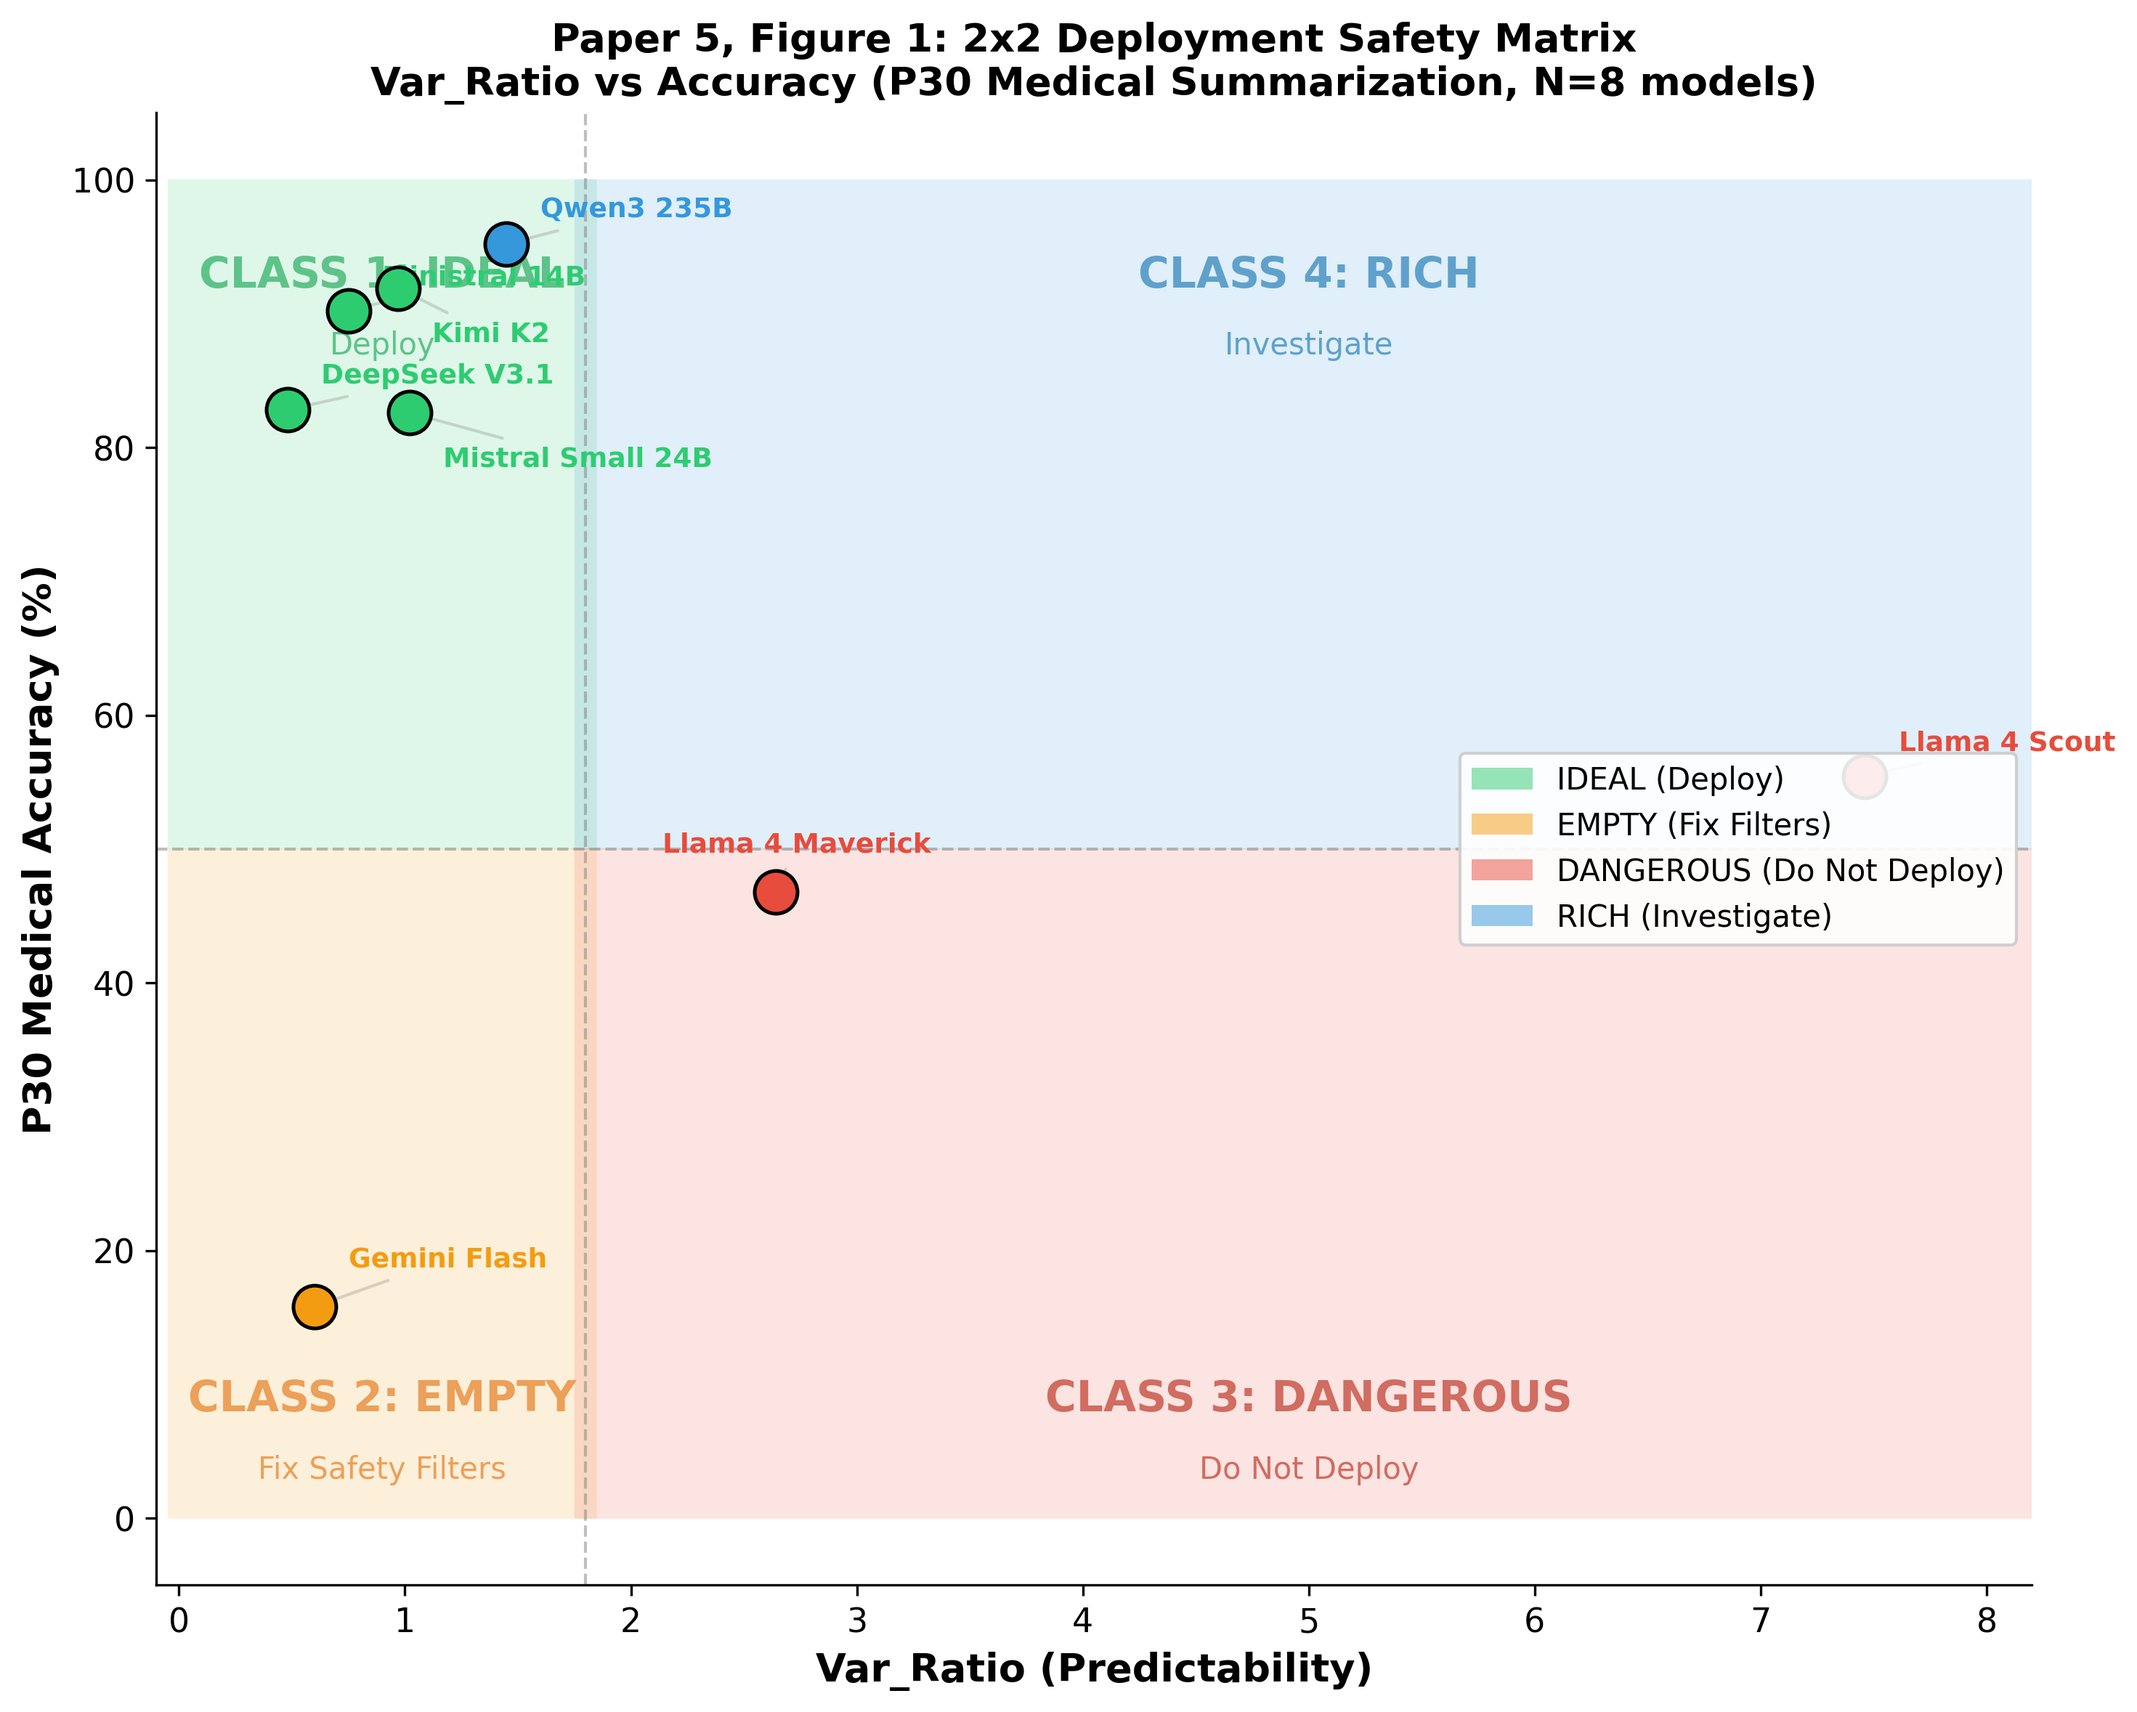
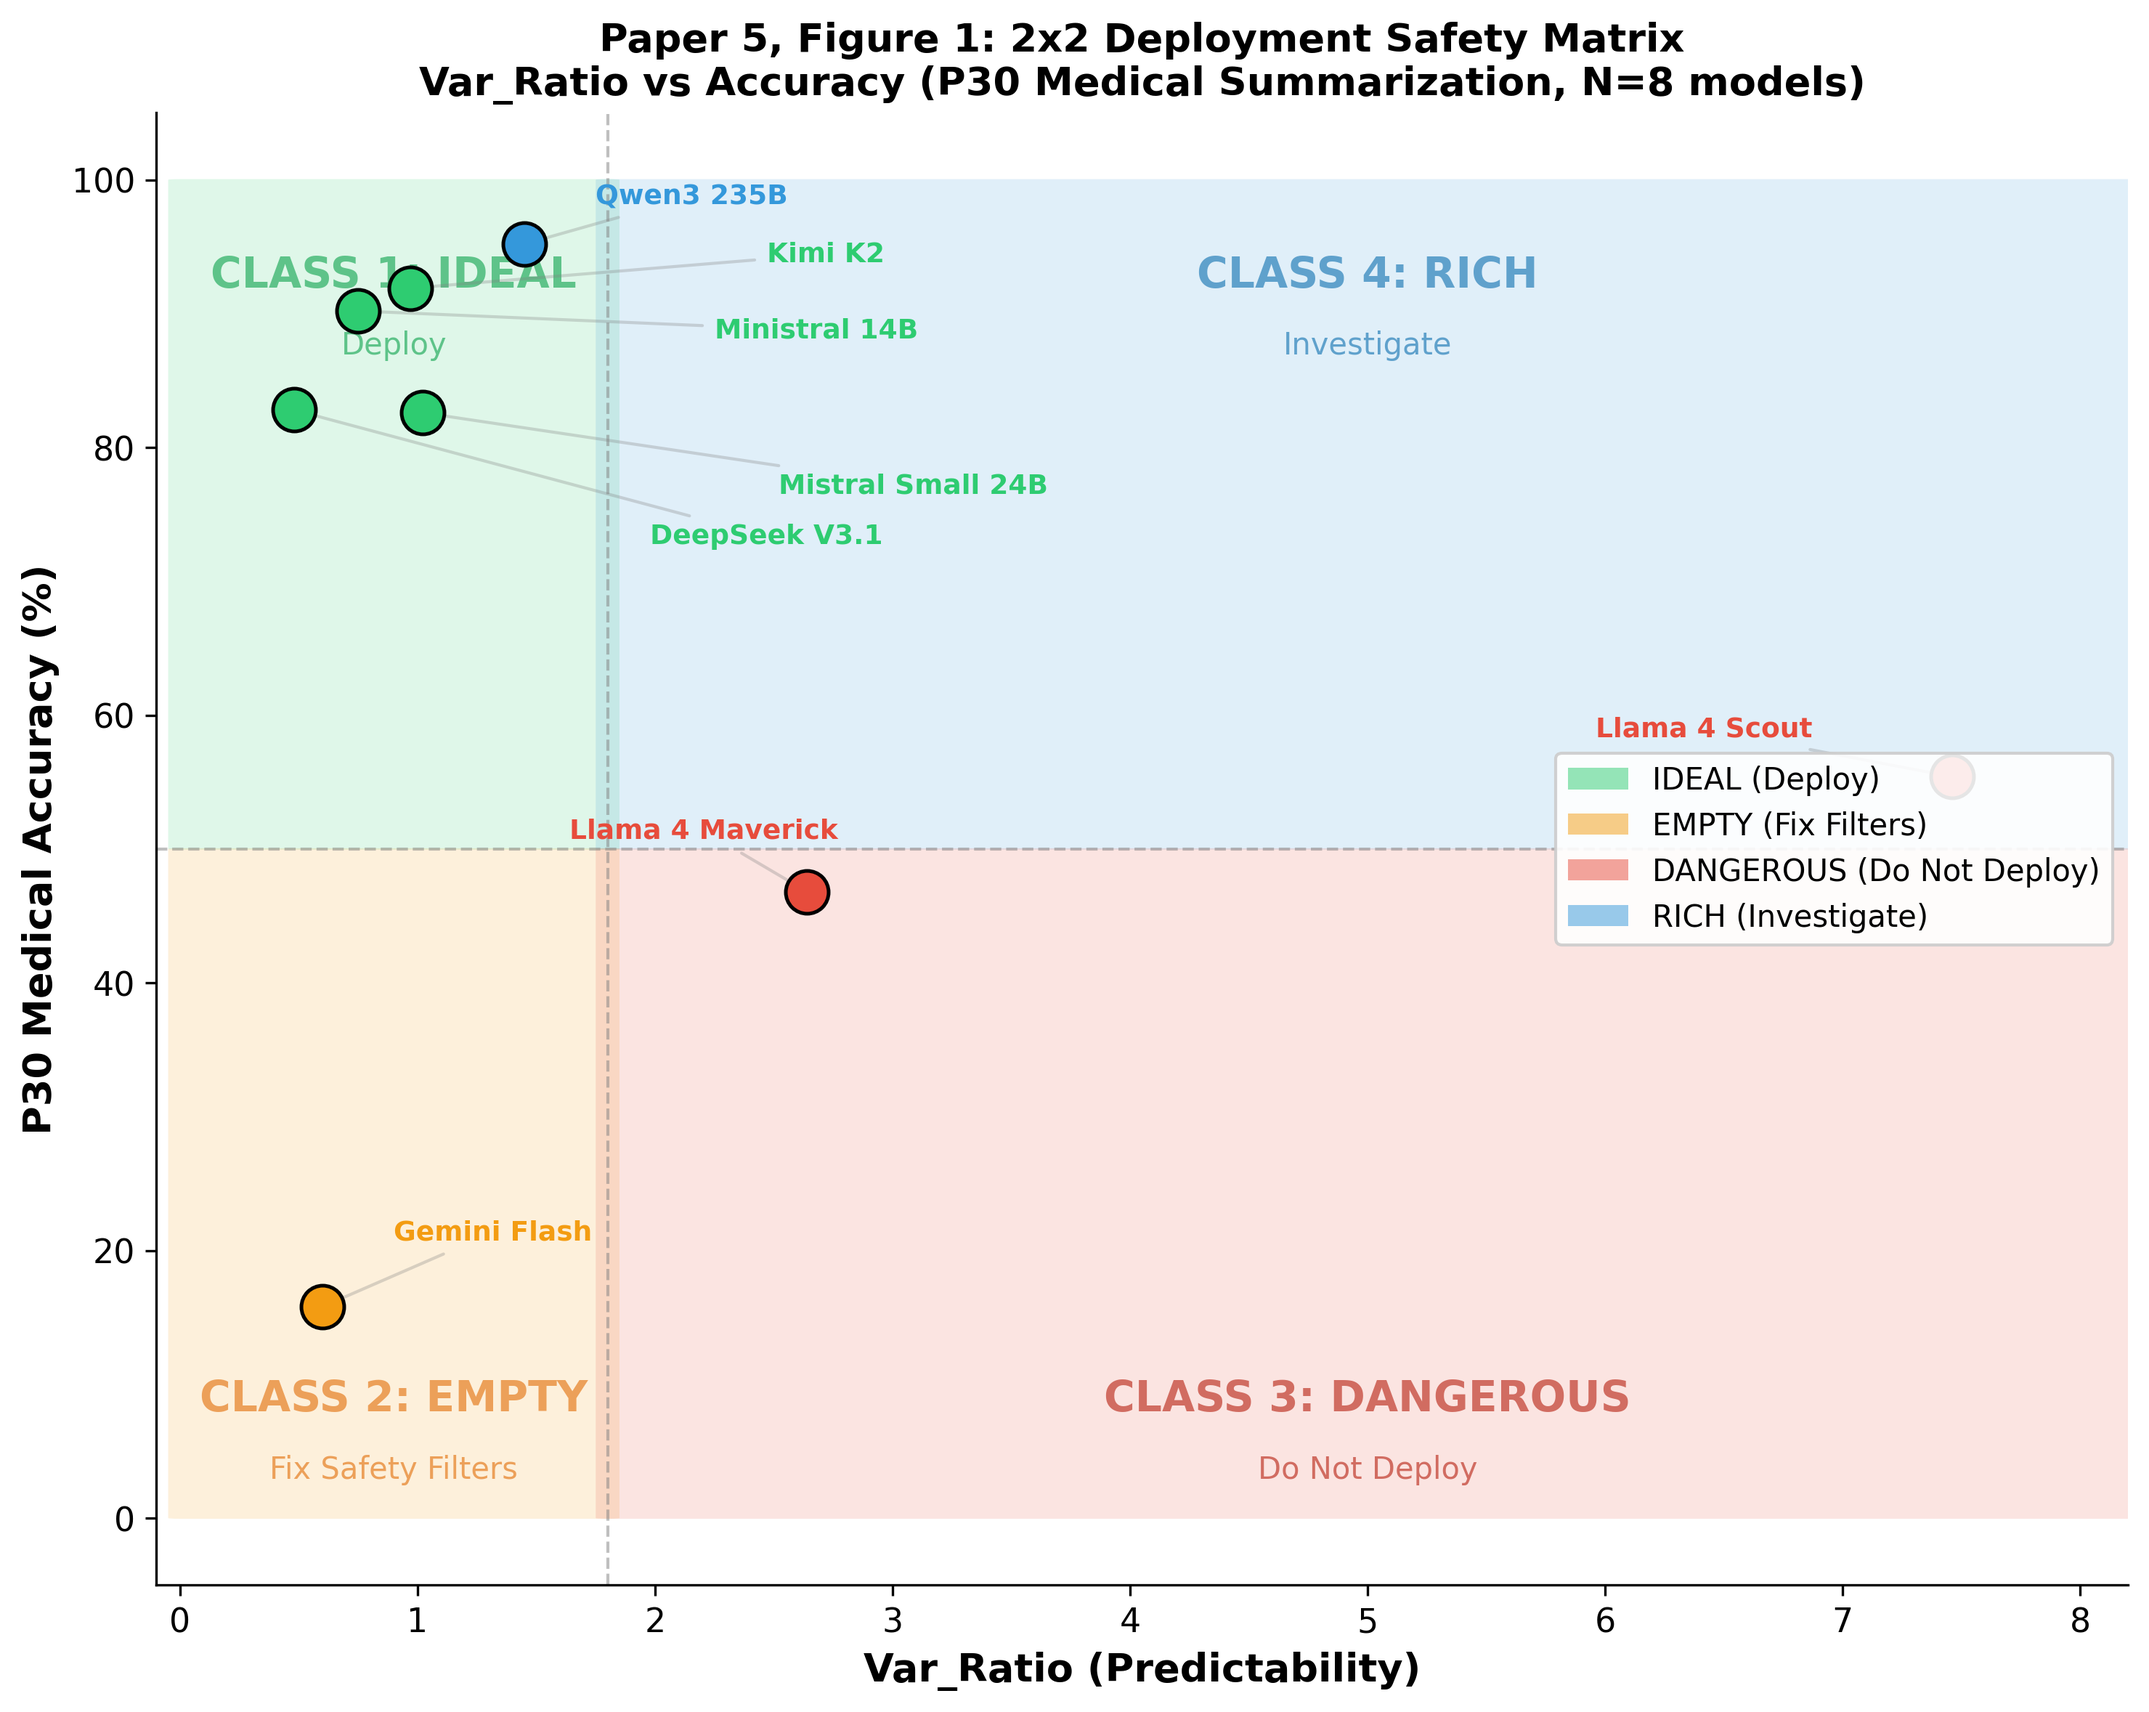
Fix Paper 5 figure overlaps: labels, colorbar, annotations
- Fig 1: Spread IDEAL quadrant labels to avoid clustering
- Fig 3: Move colorbar to horizontal position below panels
- Fig 4: Reposition Gemini and Llama annotations to clear space

diff --git a/scripts/generate_paper5_figures.py b/scripts/generate_paper5_figures.py
@@ -91,24 +91,25 @@ def fig1_safety_matrix():
             color='#c0392b', alpha=0.7)
     ax.text(5.0, 3, "Do Not Deploy", ha='center', fontsize=10, color='#c0392b', alpha=0.7)
 
-    # Plot models
+    # Plot models with carefully tuned label positions to avoid overlap
+    # Models in IDEAL quadrant are tightly clustered (~0.5-1.5 VR, ~82-95% acc)
+    # so labels need aggressive spreading
+    label_offsets = {
+        "qwen3_235b":       (0.3, 3),       # above its dot (highest)
+        "kimi_k2":          (1.5, 2),       # offset right
+        "ministral_14b":    (1.5, -2),      # offset right-below
+        "mistral_small_24b":(1.5, -6),      # far below-right
+        "deepseek_v3_1":    (1.5, -10),     # furthest below-right
+        "gemini_flash":     (0.3, 5),       # above
+        "llama_4_maverick": (-1.0, 4),      # above-left
+        "llama_4_scout":    (-1.5, 3),      # above-left
+    }
     for i, m in enumerate(models):
         ax.scatter(var_ratios[i], accuracies[i], c=colors[i], s=200, zorder=5,
                   edgecolors='black', linewidth=1.2)
-        # Label offset to avoid overlap
-        offset_x = 0.15
-        offset_y = 2
-        if m == "kimi_k2":
-            offset_y = -4
-        elif m == "mistral_small_24b":
-            offset_y = -4
-        elif m == "gemini_flash":
-            offset_y = 3
-        elif m == "llama_4_maverick":
-            offset_x = -0.5
-            offset_y = 3
+        ox, oy = label_offsets.get(m, (0.15, 2))
         ax.annotate(names[i], (var_ratios[i], accuracies[i]),
-                   xytext=(var_ratios[i]+offset_x, accuracies[i]+offset_y),
+                   xytext=(var_ratios[i]+ox, accuracies[i]+oy),
                    fontsize=9, fontweight='bold', color=colors[i],
                    arrowprops=dict(arrowstyle='-', color='gray', alpha=0.3))
 
@@ -216,7 +217,7 @@ def fig2_llama_variability():
 def fig3_archetypes_embedding():
     """Visualize the three archetype response patterns in embedding space.
     Uses actual trial scores to create a meaningful 2D representation."""
-    fig, axes = plt.subplots(1, 3, figsize=(15, 5))
+    fig, axes = plt.subplots(1, 3, figsize=(16, 6))
 
     np.random.seed(42)
 
@@ -278,13 +279,14 @@ def fig3_archetypes_embedding():
         ax.spines['top'].set_visible(False)
         ax.spines['right'].set_visible(False)
 
-    # Colorbar
-    cbar = fig.colorbar(sc, ax=axes, shrink=0.8, pad=0.02)
+    # Colorbar — horizontal, below the panels to avoid overlapping Llama scatter
+    cbar_ax = fig.add_axes([0.35, 0.02, 0.3, 0.02])  # [left, bottom, width, height]
+    cbar = fig.colorbar(sc, cax=cbar_ax, orientation='horizontal')
     cbar.set_label("Accuracy Score (/16)", fontsize=10)
 
     fig.suptitle("Paper 5, Figure 3: Response Distribution Archetypes in Embedding Space\n(50 trials per model, P30 medical summarization)",
                 fontsize=13, fontweight='bold')
-    plt.tight_layout()
+    plt.subplots_adjust(top=0.85, bottom=0.12, wspace=0.3)
     fig.savefig(OUT_DIR / "fig3_archetypes_embedding.png", dpi=300, bbox_inches='tight')
     plt.close()
     print("Figure 3: Three Archetypes Embedding -- SAVED")
@@ -295,7 +297,7 @@ def fig3_archetypes_embedding():
 # ============================================================
 def fig4_one_dimension_failure():
     """Shows why neither Var_Ratio alone nor Accuracy alone is sufficient."""
-    fig, axes = plt.subplots(1, 2, figsize=(13, 6))
+    fig, axes = plt.subplots(1, 2, figsize=(14, 7))
 
     # Sort models for display
     model_order = ["deepseek_v3_1", "gemini_flash", "ministral_14b", "kimi_k2",
@@ -315,9 +317,9 @@ def fig4_one_dimension_failure():
         label = f"{name} ({a:.0f}%)"
         ax.text(v + 0.1, i, label, va='center', fontsize=9, fontweight='bold')
 
-    # Highlight the failure
+    # Highlight the failure — position annotation in empty space
     ax.annotate("Gemini: Low VR but\nonly 16% accuracy!",
-               xy=(0.6, 1), xytext=(2.5, 1),
+               xy=(0.6, 1), xytext=(5.0, 3.5),
                fontsize=10, color='#e67e22', fontweight='bold',
                arrowprops=dict(arrowstyle='->', color='#e67e22', lw=2))
 
@@ -325,6 +327,7 @@ def fig4_one_dimension_failure():
     ax.set_title("A. Sorted by Var_Ratio Only\n(Low = 'safe'?)", fontsize=12, fontweight='bold')
     ax.set_yticks([])
     ax.set_xlim(0, 9)
+    ax.set_ylim(-1, 8.5)
     ax.axvline(x=1.8, color='gray', linestyle='--', alpha=0.5, label='Risk threshold')
     ax.spines['top'].set_visible(False)
     ax.spines['right'].set_visible(False)
@@ -338,15 +341,18 @@ def fig4_one_dimension_failure():
         label = f"{name} (VR={v:.2f})"
         ax2.text(a + 1, i, label, va='center', fontsize=9, fontweight='bold')
 
-    ax2.annotate("Llama: 55% accuracy looks\n'moderate' — hides VR=7.46!",
-               xy=(55.4, 5), xytext=(20, 3),
-               fontsize=10, color='#c0392b', fontweight='bold',
+    # Llama Scout is at index 5 in descending accuracy sort
+    # Place annotation below all bars in clear space
+    ax2.annotate("Llama: 55% looks 'moderate'\n— hides VR=7.46!",
+               xy=(55.4, 5), xytext=(45, -0.8),
+               fontsize=9, color='#c0392b', fontweight='bold',
                arrowprops=dict(arrowstyle='->', color='#c0392b', lw=2))
 
     ax2.set_xlabel("P30 Accuracy (%)", fontsize=12, fontweight='bold')
     ax2.set_title("B. Sorted by Accuracy Only\n(High = 'safe'?)", fontsize=12, fontweight='bold')
     ax2.set_yticks([])
     ax2.set_xlim(0, 115)
+    ax2.set_ylim(-1, 8.5)
     ax2.spines['top'].set_visible(False)
     ax2.spines['right'].set_visible(False)
 
